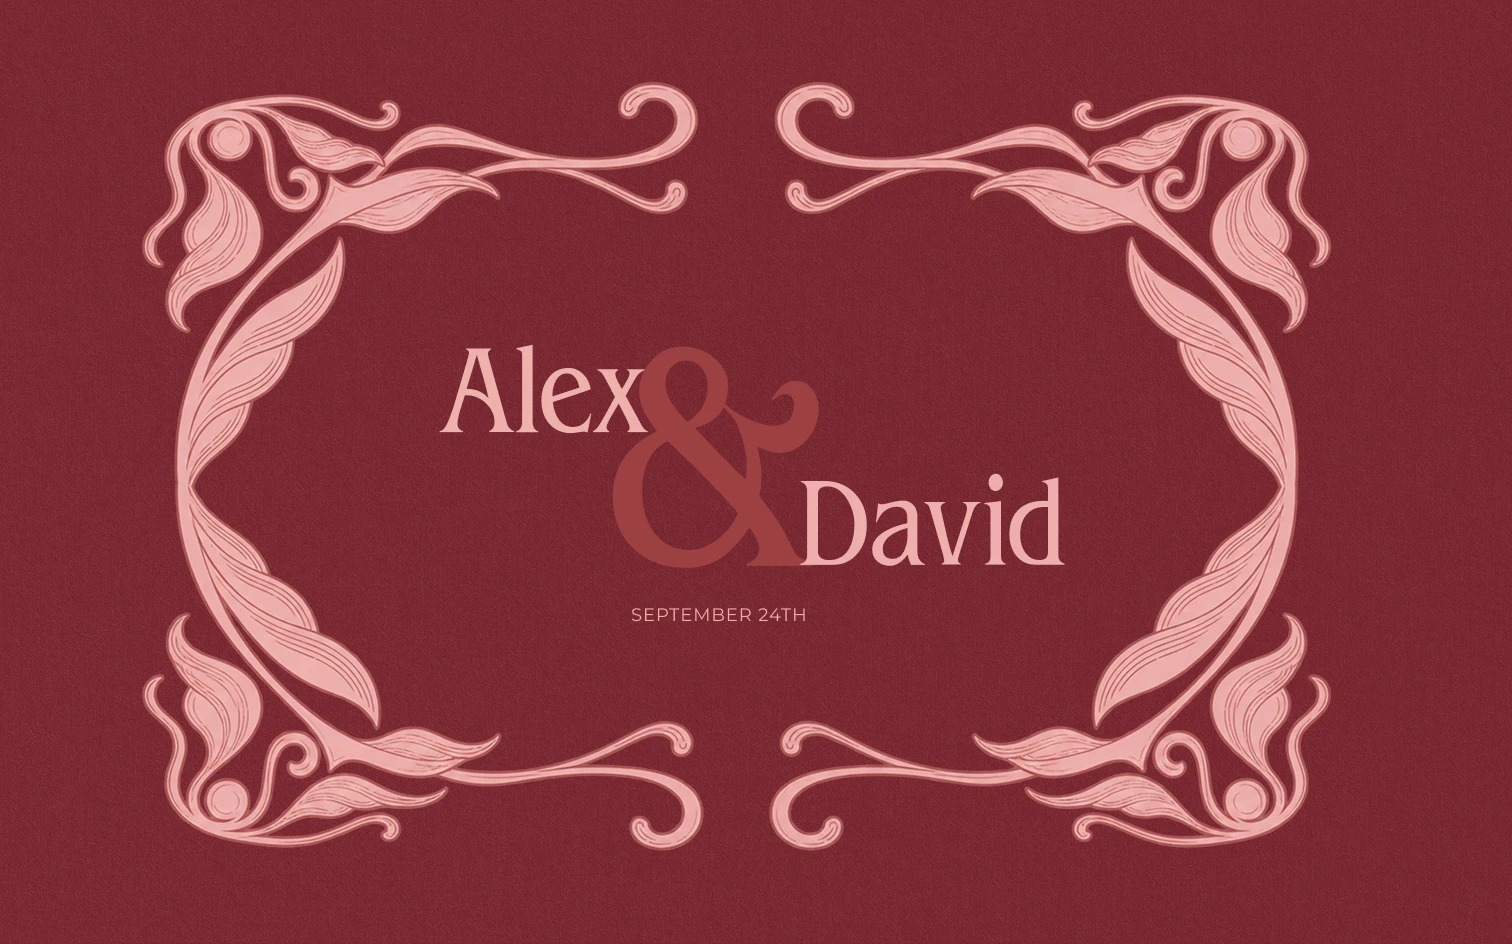
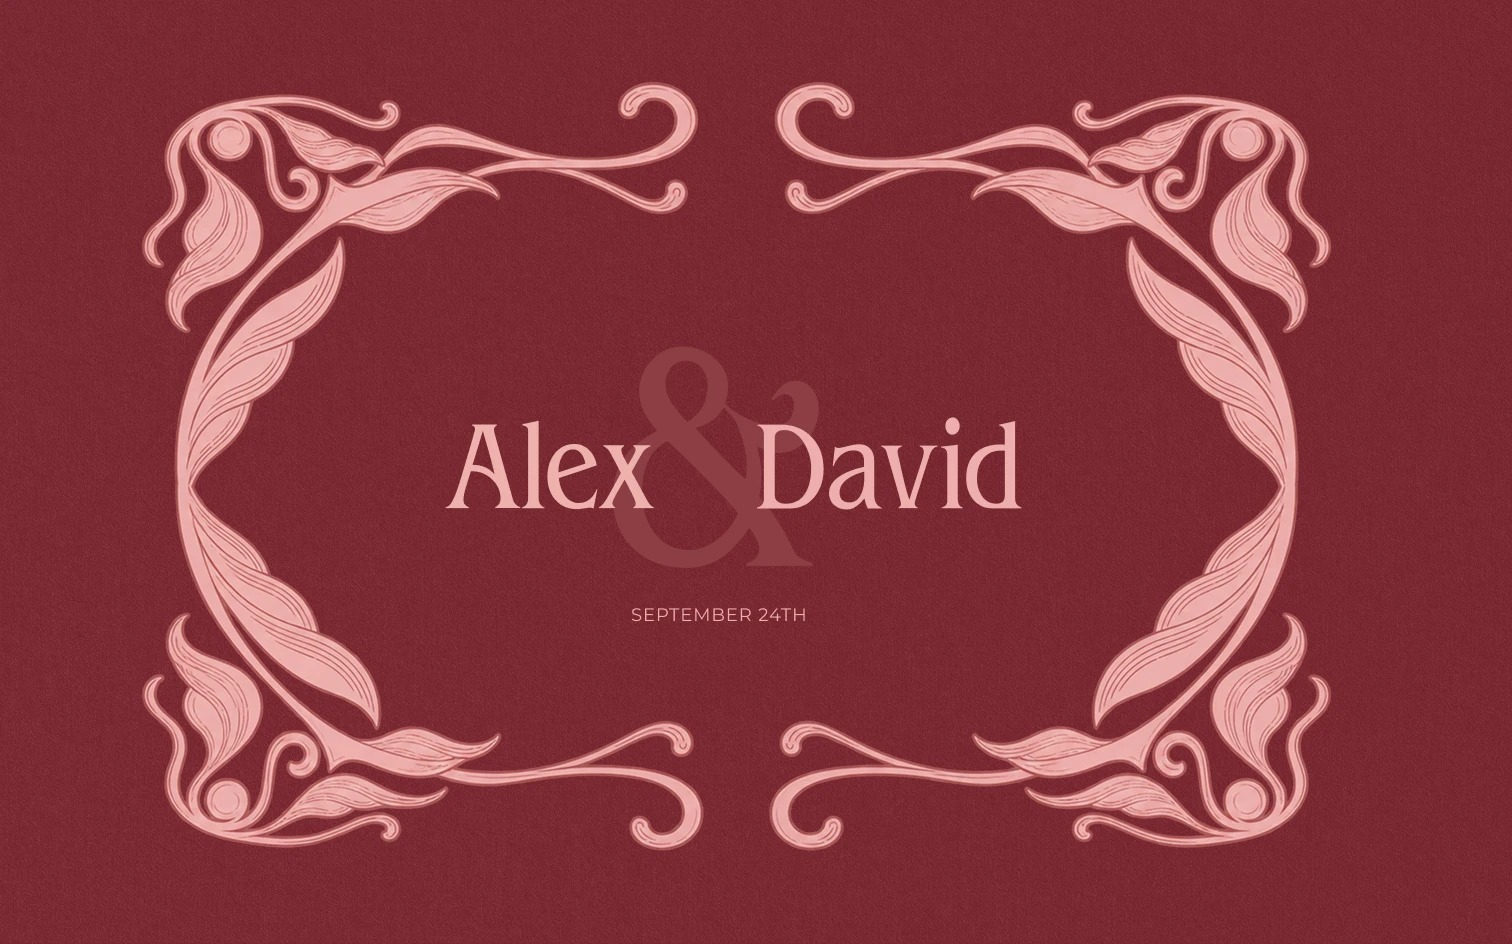
Rename the minimalist design to Rambla; new images for Vega
Claude-Session: https://claude.ai/code/session_01C5v76WbzWToXMSbSKUH8eA

Changed region(s): [[0.4974, 0.4301, 0.7149, 0.6144], [0.2798, 0.3686, 0.4352, 0.553]]

diff --git a/src/lib/site-dict.ts b/src/lib/site-dict.ts
@@ -325,10 +325,10 @@ const es: SiteDict = {
     upcoming: [
       {
         image: "/catalog/proximo-diseno.jpg",
-        title: "Duna",
+        title: "Rambla",
         tagline: "Minimalista y a trazo",
         summary: "Muy pronto podréis verlo aquí y hacerlo vuestro.",
-        imageAlt: "Avance de Duna, próximo diseño: una pareja ilustrada a trazo que sostiene dos fotos de cuando eran pequeños",
+        imageAlt: "Avance de Rambla, próximo diseño: una pareja ilustrada a trazo que sostiene dos fotos de cuando eran pequeños",
         tags: ["Minimalista", "A trazo"],
       },
       {
@@ -633,10 +633,10 @@ const en: SiteDict = {
     upcoming: [
       {
         image: "/catalog/proximo-diseno.jpg",
-        title: "Duna",
+        title: "Rambla",
         tagline: "Minimal and line-drawn",
         summary: "You'll soon be able to see it here and make it yours.",
-        imageAlt: "Preview of Duna, an upcoming design: a line-drawn couple holding two photos of themselves as children",
+        imageAlt: "Preview of Rambla, an upcoming design: a line-drawn couple holding two photos of themselves as children",
         tags: ["Minimal", "Line-drawn"],
       },
       {

diff --git a/src/components/site/HeroGrid.tsx b/src/components/site/HeroGrid.tsx
@@ -26,10 +26,10 @@ const shots: Shot[] = [
   },
   {
     src: "/hero/proximo-diseno.jpg",
-    template: "Duna",
-    slug: "duna",
+    template: "Rambla",
+    slug: "rambla",
     label: "Portada",
-    alt: "Avance de Duna, próximo diseño de Wedite: una pareja ilustrada a trazo con dos fotos de cuando eran pequeños",
+    alt: "Avance de Rambla, próximo diseño de Wedite: una pareja ilustrada a trazo con dos fotos de cuando eran pequeños",
   },
   {
     src: "/hero/proximo-diseno-2.jpg",
